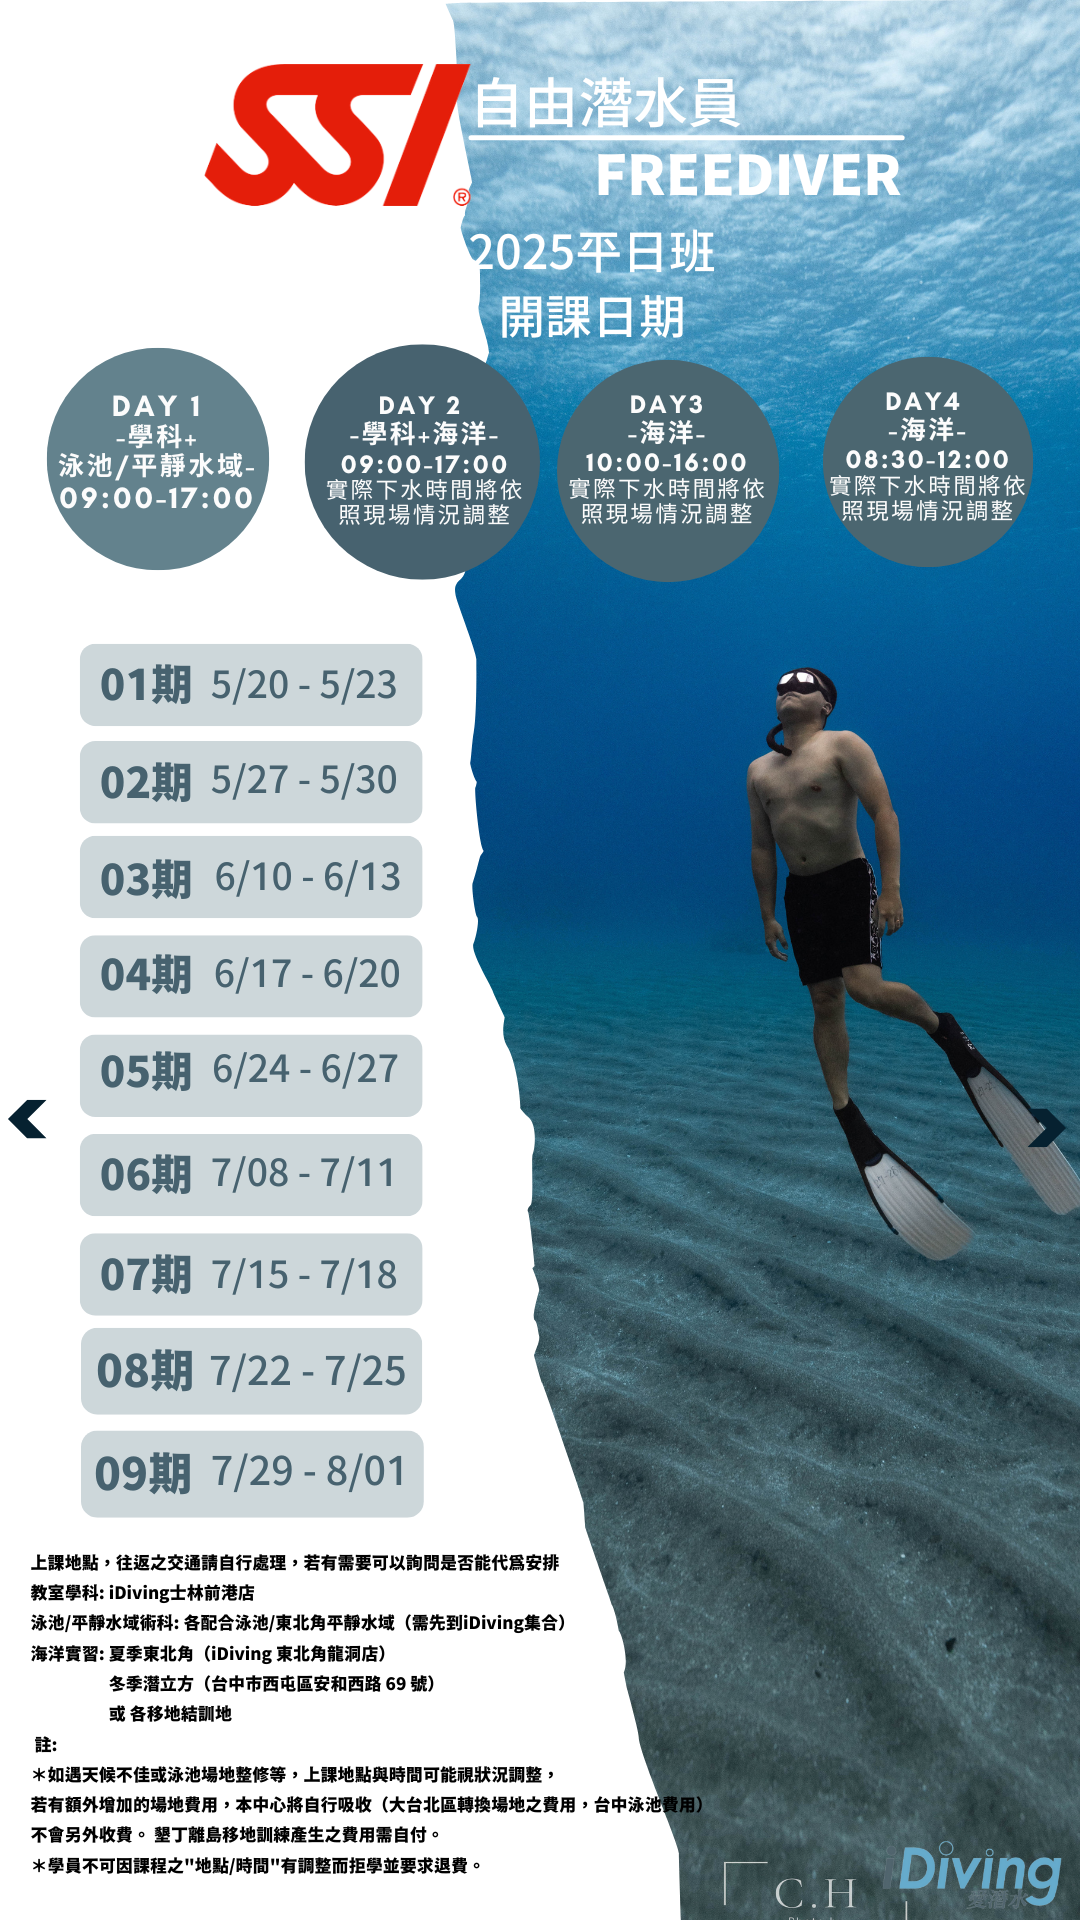
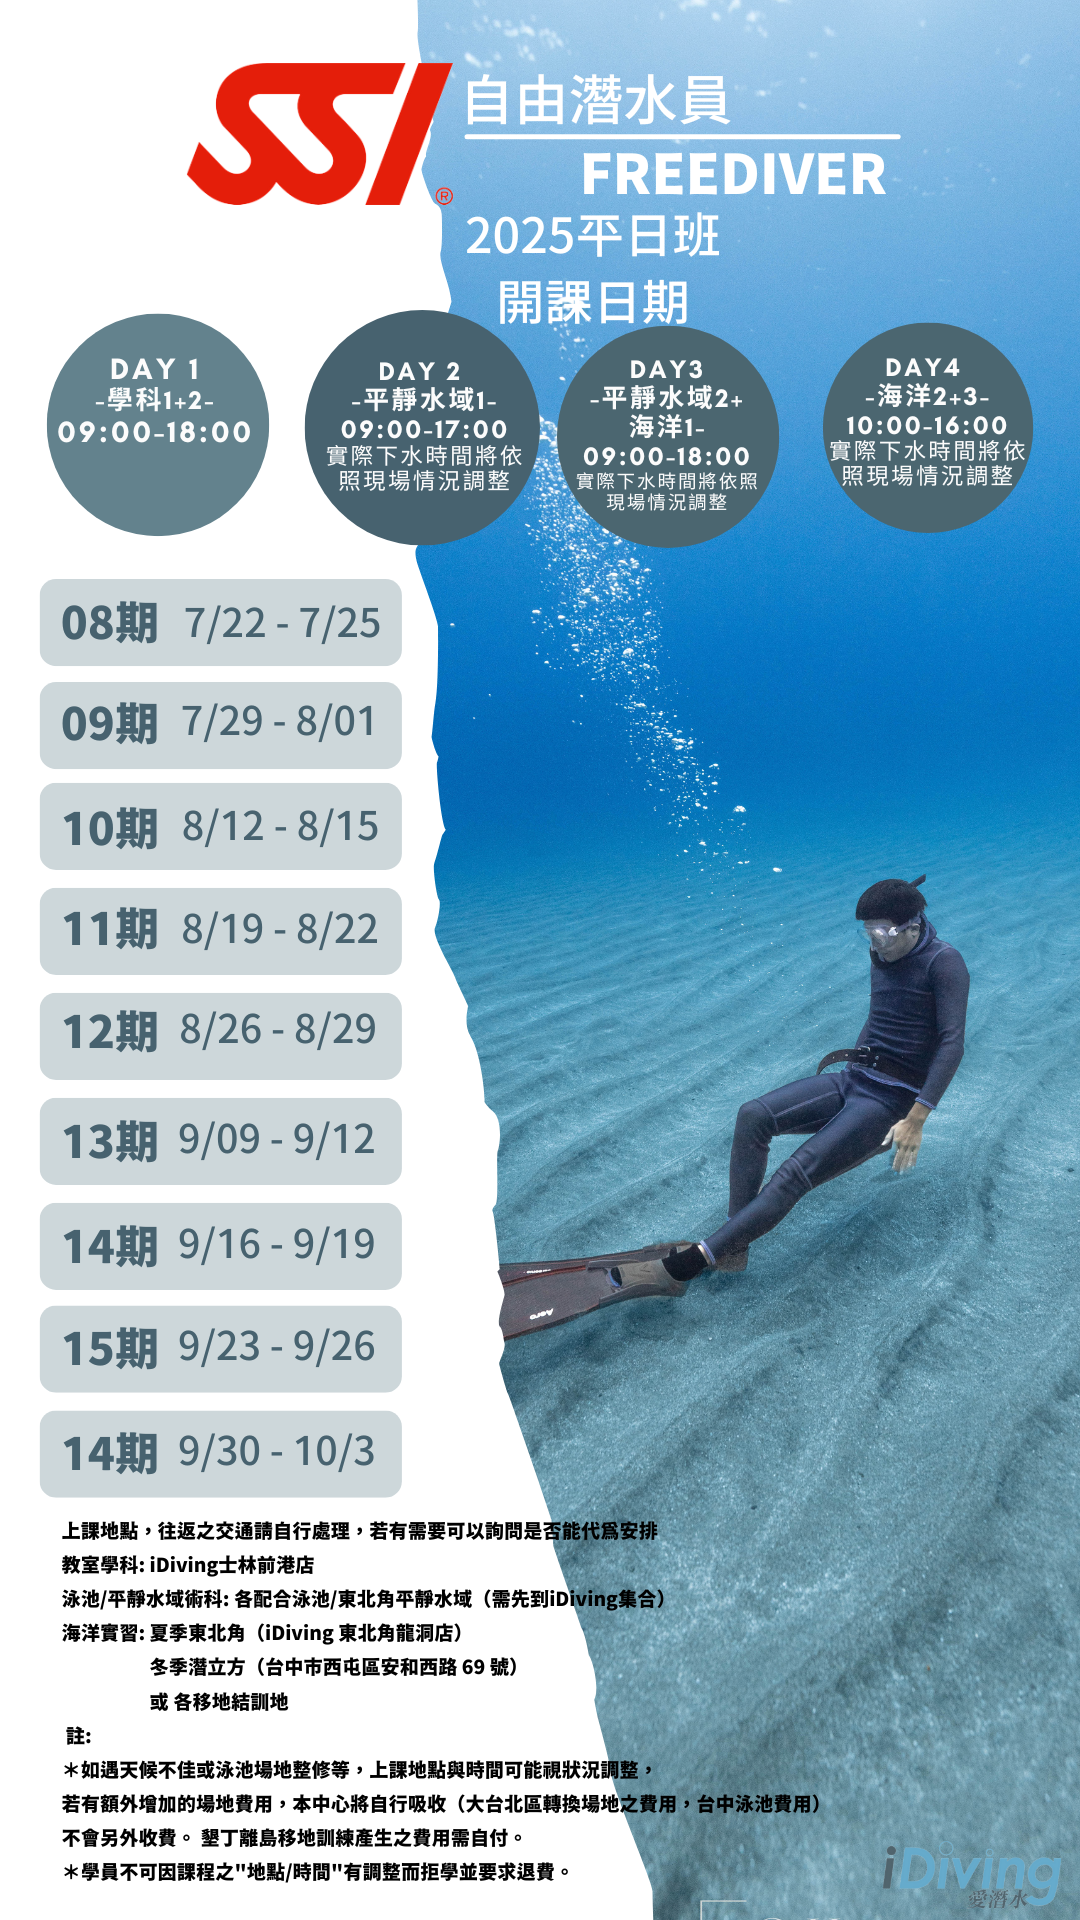
FD平日班開課日期更新 FD平日班課程規劃 更改

diff --git a/src/app/pages/cfd110/cfd110.component.html b/src/app/pages/cfd110/cfd110.component.html
@@ -889,13 +889,25 @@
                                         </td>
                                         <td>
                                             <p class="fs-6">
-                                                DAY 1 | 學科 + 泳池/平靜水域術科 09:00~17:00<br>
+                                                DAY 1 | 學科 1+2 09:00~18:00<br>
                                             </p>
                                             <hr>
                                             <p class="fs-6">
                                                 自由潛水生理學、海洋環境。<br>
-                                                <br>
-                                                裝備使用、閉氣練習、踢動技巧<br>
+                                                裝備介紹、自由潛水技巧。
+                                            </p>
+                                        </td>
+                                    </tr>
+                                    <tr>
+                                        <td>
+                                        </td>
+                                        <td>
+                                            <p class="fs-6">
+                                                <br>DAY 2 | 平靜水域 1 09:00~17:00<br>
+                                            </p>
+                                            <hr>
+                                            <p class="fs-6">
+                                                裝備使用、閉氣練習、踢動技巧。<br>
                                                 平潛練習、潛伴制度。
                                             </p>
                                         </td>
@@ -905,25 +917,13 @@
                                         </td>
                                         <td>
                                             <p class="fs-6">
-                                                <br>DAY 2 | 學科 + 海洋 09:00~17:00<br>
+                                                <br>DAY 3 | 平靜水域2 + 海洋 1 09:00~18:00<br>
                                             </p>
                                             <hr>
                                             <p class="fs-6">
-                                                裝備介紹、自由潛水技巧。<br>
-                                                <br>
                                                 平壓技巧、5m划手、無面鏡上升<br>
                                                 救援技巧、鴨式技巧。
                                             </p>
-                                        </td>
-                                    </tr>
-                                    <tr>
-                                        <td>
-                                        </td>
-                                        <td>
-                                            <p class="fs-6">
-                                                <br>DAY 3 | 海洋 09:00~17:00<br>
-                                            </p>
-                                            <hr>
                                             <p class="fs-6">
                                                 10m划手、無面鏡上升、鴨式下潛、10m救援<br>
                                                 10m恆重下潛，同時展現適當身體技巧。
@@ -935,7 +935,7 @@
                                         </td>
                                         <td>
                                             <p class="fs-6">
-                                                <br>DAY 4 | 海洋 08:30~12:00<br>
+                                                <br>DAY 4 | 海洋 10:00~16:00<br>
                                             </p>
                                             <hr>
                                             <p class="fs-6">
@@ -962,9 +962,9 @@
                                     <div class="carousel-item active">
                                         <img src="../../../../assets/Image/Data/FD_Weekdays_Schedule_01.png" class="d-block w-100" alt="...">
                                     </div>
-                                    <div class="carousel-item">
+                                    <!-- <div class="carousel-item">
                                         <img src="../../../../assets/Image/Data/FD_Weekdays_Schedule_02.png" class="d-block w-100" alt="...">
-                                    </div>
+                                    </div> -->
                                 </div>
                                 <button class="carousel-control-prev" type="button" data-bs-target="#carouselExampleIndicators" data-bs-slide="prev">
                                     <span class="carousel-control-prev-icon" aria-hidden="true"></span>
